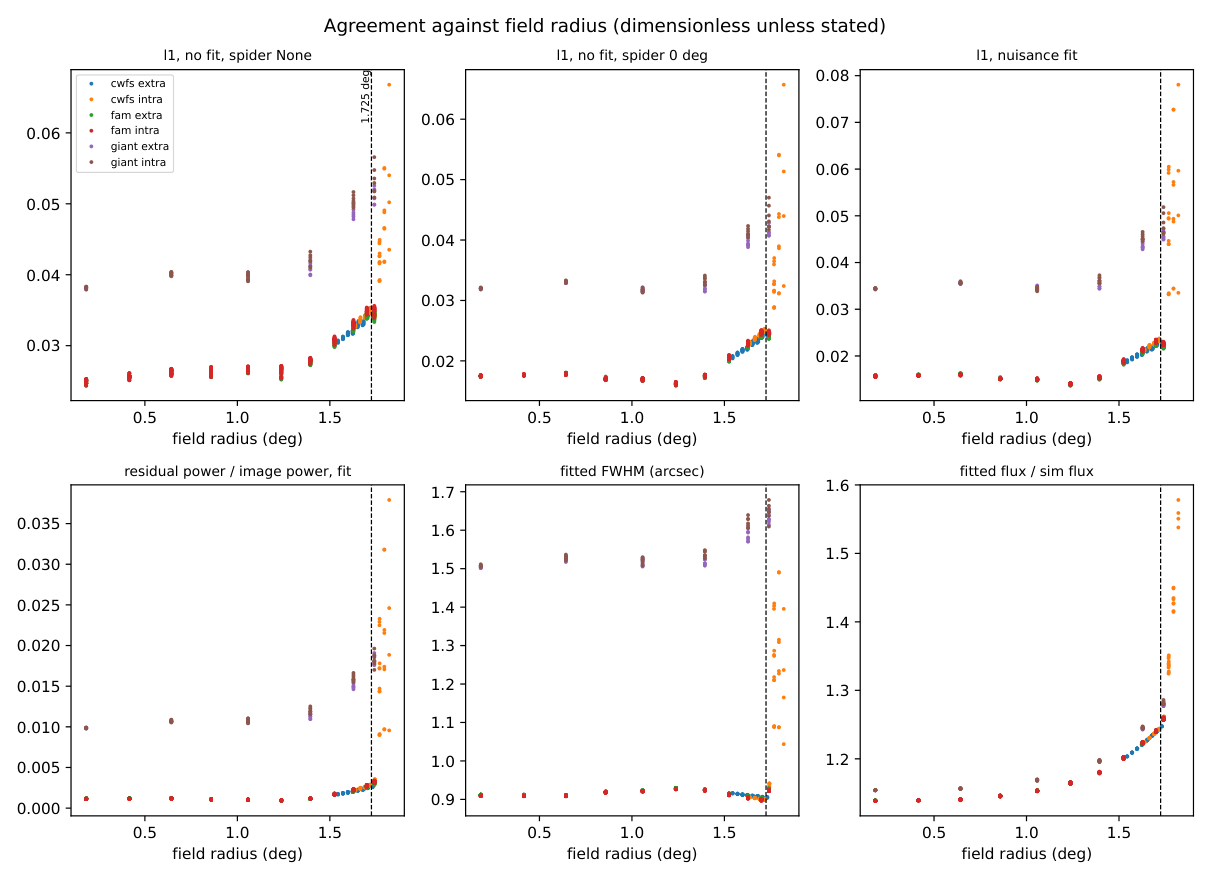
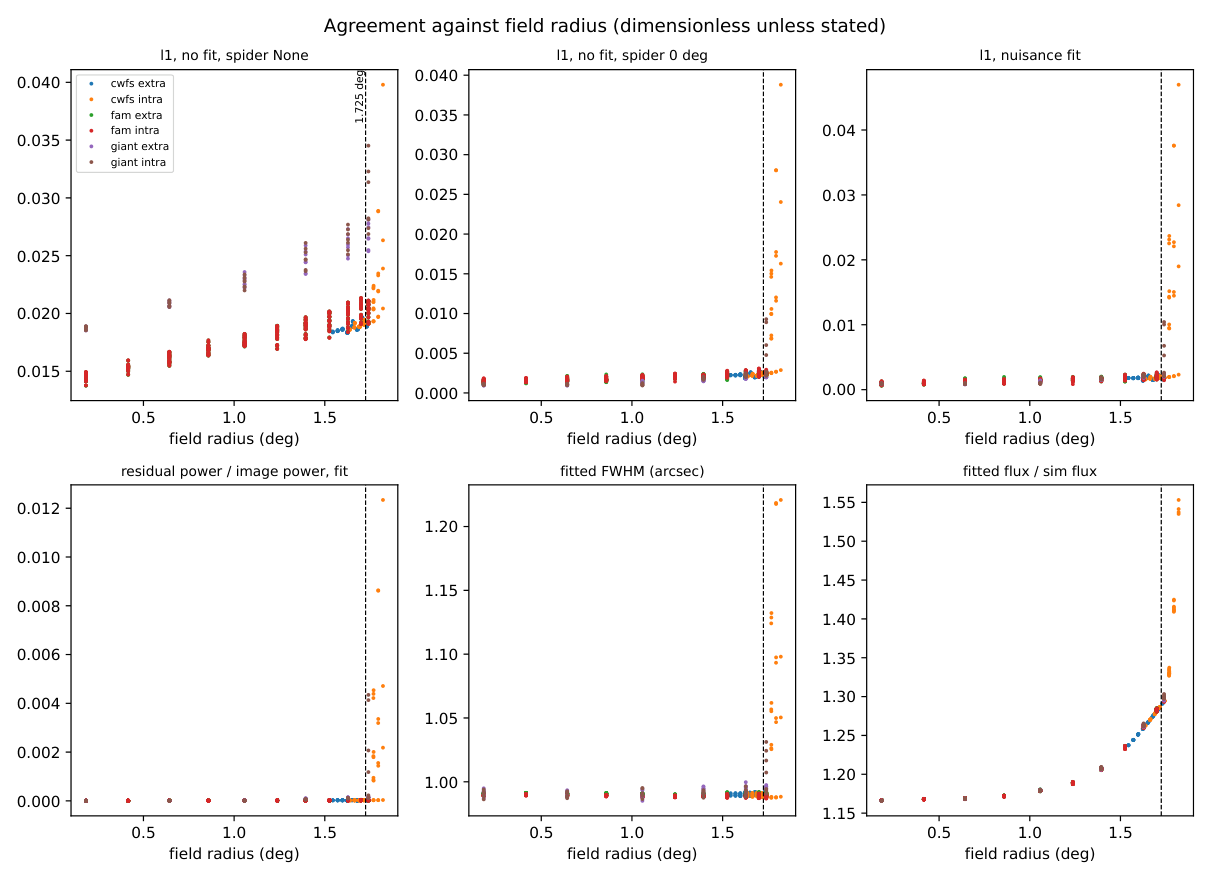
v4speed_mask_vs_batoid: correction and pass 2: the v4_speed file, edge g
Written by /wrap for aos/v4speed_mask_vs_batoid.

Generated with AI

diff --git a/aos/v4speed_mask_vs_batoid/study.md b/aos/v4speed_mask_vs_batoid/study.md
@@ -3,10 +3,10 @@ study: v4speed_mask_vs_batoid
 topic: aos
 status: answered
 question: With the wavefront fixed at the Batoid v4_speed TA Zernikes (no fit), how well does the Danish forward model with the v4_speed obscuration file match Batoid-traced donuts, by defocus configuration (FAM, CWFS, giant), side and field position?
-answer: Danish (v4_speed obscuration, spider_angle 0 deg) at the batoid TA wavefront misplaces a median 1.8% of the flux on FAM donuts, 2.2-2.5% on CWFS and 3.3% on giant; within 1.725 deg the worst after a nuisance fit is 2.4% (FAM, CWFS) and 4.7% (giant). The giant pupil edges do not match (fitted blur 1.5 arcsec at a true 1.0 arcsec).
+answer: With the v4_speed obscuration file (spider_angle 0 deg) Danish at the batoid TA wavefront misplaces a median 0.20% of the flux on FAM, 0.22-0.24% on CWFS and 0.15% on giant donuts, at most 0.27% within 1.725 deg; the giant residual is the +-4 mm M2 and camera shift (edges off 3-8 mm on the stop plane, sign reversing with side). Pass 1 used ts_wep's shipped mask by mistake.
 uses:
-  batoid_intrinsic: v4_speed@20261121
-  sim_donuts: v4_speed_mono@20261120
+  batoid_intrinsic: v4_speed@20261121, v4_speed@20261121b
+  sim_donuts: v4_speed_mono@20261120, v4_speed_mono_edge@20261121
 started: 2026-11-20
 ---
 
@@ -18,15 +18,63 @@ With the wavefront fixed at the Batoid v4_speed TA Zernikes (no fit), how well d
 
 ## Current answer
 
-At the batoid TA wavefront, with no wavefront fit, Danish with the v4_speed obscuration
-file misplaces a median 1.8% of the flux on FAM donuts, 2.2-2.5% on CWFS and 3.3% on
-giant donuts (l1, dimensionless; spider_angle 0 deg). It is flat to 1.4 deg field
-radius, then rises; within the 1.725 deg limit the worst after a nuisance fit is 2.4%
-(FAM, CWFS) and 4.7% (giant), and the 6-8% CWFS corners all lie beyond it. The
-giant-donut pupil edges do not match: the fit inflates the blur to 1.5 arcsec against a
-true 1.0 arcsec.
+With the v4_speed obscuration file (spider_angle 0 deg), Danish at the batoid TA
+wavefront misplaces a median 0.20% of the flux on FAM donuts, 0.22-0.24% on CWFS and
+0.15% on giant donuts (l1, dimensionless), at most 0.27% within 1.725 deg, with the
+fitted blur within 0.01 arcsec of the truth. The remaining giant mismatch is the ±4 mm
+M2 and camera shift: M3, M2 and camera-body edges off by 3-8 mm on the stop plane, with
+opposite signs on the two sides. Pass 1's larger numbers were ts_wep's shipped v3.14
+mask, used by mistake.
 
 ## Log
+
+### 2026-11-21 — correction and pass 2: the v4_speed file, edge grid, per-element edges
+
+**Correction: pass 1 did not test the v4_speed obscuration file.** `rubinwork.donut_sim.optics.instrument`
+passed `maskParams=None` to ts_wep's `Instrument`, and `mergeConfigWithFile` drops `None`
+kwargs, so the 6-element v3.14 mask inline in `LsstCam.yaml` stayed in force. Fixed in
+`90381bf` (clear with the setter, then check against the file). Runs `20261121_ta_model`
+(rerun under `--mask lsstcam_shipped`, now titled for that mask) and the pass-1 Log numbers
+describe **ts_wep's shipped mask against the v4_speed batoid model**, not Josh's file.
+`20261121_blur_check` was redone with the right mask. The products are unaffected: neither
+`batoid_intrinsic` nor `sim_donuts` uses the mask.
+
+With the v4_speed file (run `20261121_ta_model_v4obsc`, all 998 `sim_donuts` stamps), l1 is
+the fraction of the flux misplaced (dimensionless); medians, spider_angle 0 deg:
+
+| config | l1 no fit | l1 fit, max within 1.725 deg | fitted FWHM (arcsec, true 1.0) |
+|---|---|---|---|
+| fam | 0.0020 | 0.0027 | 0.990 |
+| cwfs | 0.0022-0.0024 | 0.0023 | 0.990 |
+| giant | 0.0015 | 0.0024 | 0.992-0.993 |
+
+Against the shipped mask the same numbers were 0.018, 0.022-0.025 and 0.033, with fitted
+FWHM 0.91 and 1.53 arcsec. The FAM blur deficit and the giant edge mismatch of pass 1 were
+both the shipped mask. Blur check with the v4_speed file: fitted 0.48-0.49, 0.99 and
+1.49-1.50 arcsec at a true 0.5, 1.0 and 1.5 arcsec. Without the spider (spider_angle None)
+l1 is 0.018-0.026: the vanes must be on.
+
+**Edge grid** (run `20261121_edge_v4obsc`, `sim_donuts v4_speed_mono_edge@20261121`, 1344
+stamps, 1.400-1.725 deg in 0.025 deg steps by 24 azimuths): l1 no fit 0.20-0.26% (FAM) and
+0.17-0.21% (giant), rising smoothly with radius; after the fit at most 0.26% and 0.25%;
+fitted FWHM 0.989-0.995 arcsec. No radius stands out where the eight camera edges switch on.
+
+**Stop plane, per element** (`pupil_edges.py`, `0db135c`, run `20261121_pupil_edges`):
+batoid vignetting against Danish's mask on a 512 x 512 stop-plane grid, 14 radii x 4
+azimuths. Mismatched area over batoid clear area: FAM 0.02% median, 0.06% max; giant
+0.19-0.21% median, 0.27% max. The giant offsets are nearly constant in field radius and
+reverse with the side ([figure](figures/giant_edge_offsets.png)): extra M3 outer +8 mm,
+M2 outer +5 mm, M2 inner -3 mm, camera body -6 mm; intra the opposite. That is the
++-4 mm M2 and camera shift, which one mask file cannot follow; for FAM the largest is the
+camera body at 3.7 mm.
+
+[Agreement against field radius](figures/field_radius.png) (now the v4_speed file).
+
+Next:
+- `sim_donut_fits` and `v4speed_danish_closure`: whether 0.2% of misplaced flux biases
+  the fitted Zernikes;
+- if the giant fits are biased: side-dependent giant masks from batoid edges, as
+  `gen_mask_params.py` does.
 
 ### 2026-11-21 — pass 1 PDF: 1.725 deg limit, metric equations, edge examples
 

diff --git a/STUDIES.md b/STUDIES.md
@@ -33,7 +33,7 @@ Every study in the repository, read from the front matter of `<topic>/<study>/st
 | [aos/psf_fp_maps](aos/psf_fp_maps/study.md) | parked | 2026-09-06 | 2026-09-20 | What focal-plane PSF FWHM, ellipticity and shape does a given optical wavefront deliver, measured the way the survey measures them? |  |  |
 | [aos/unpaired_intra_vs_extra](aos/unpaired_intra_vs_extra/study.md) | active | 2026-10-15 | 2026-10-23 | Does the wavefront measured from the intra-focal donut differ from the extra-focal donut of the same FAM pair, and is that difference thermally driven as the blur difference is? | Yes to both, with a split. Z14 carries the largest difference (-0.5221 um of wavefront, 8.6x its own two-side mean) but only Z11 tracks the blur difference within a night and only Z11 responds to the pupil model. Z4 is the surprise: a modest median difference with the second-largest robust scatter over visit pairs (0.1710 um of wavefront), 25.3 per cent of which the thermal model removes. | fam_tables: danish_1_3_v1000@20261013, danish_1_3_test@20261013 |
 | [aos/v4speed_danish_closure](aos/v4speed_danish_closure/study.md) | active | 2026-11-20 | 2026-11-20 | When the donuts, the reference wavefront and the obscuration file all come from the v4_speed model, how well do Danish fits match the donuts, and how far are the fitted Zernikes from the Batoid wavefront, by defocus configuration, side and field position? |  |  |
-| [aos/v4speed_mask_vs_batoid](aos/v4speed_mask_vs_batoid/study.md) | answered | 2026-11-20 | 2026-11-21 | With the wavefront fixed at the Batoid v4_speed TA Zernikes (no fit), how well does the Danish forward model with the v4_speed obscuration file match Batoid-traced donuts, by defocus configuration (FAM, CWFS, giant), side and field position? | Danish (v4_speed obscuration, spider_angle 0 deg) at the batoid TA wavefront misplaces a median 1.8% of the flux on FAM donuts, 2.2-2.5% on CWFS and 3.3% on giant; within 1.725 deg the worst after a nuisance fit is 2.4% (FAM, CWFS) and 4.7% (giant). The giant pupil edges do not match (fitted blur 1.5 arcsec at a true 1.0 arcsec). | batoid_intrinsic: v4_speed@20261121; sim_donuts: v4_speed_mono@20261120 |
+| [aos/v4speed_mask_vs_batoid](aos/v4speed_mask_vs_batoid/study.md) | answered | 2026-11-20 | 2026-11-21 | With the wavefront fixed at the Batoid v4_speed TA Zernikes (no fit), how well does the Danish forward model with the v4_speed obscuration file match Batoid-traced donuts, by defocus configuration (FAM, CWFS, giant), side and field position? | With the v4_speed obscuration file (spider_angle 0 deg) Danish at the batoid TA wavefront misplaces a median 0.20% of the flux on FAM, 0.22-0.24% on CWFS and 0.15% on giant donuts, at most 0.27% within 1.725 deg; the giant residual is the +-4 mm M2 and camera shift (edges off 3-8 mm on the stop plane, sign reversing with side). Pass 1 used ts_wep's shipped mask by mistake. | batoid_intrinsic: v4_speed@20261121, v4_speed@20261121b; sim_donuts: v4_speed_mono@20261120, v4_speed_mono_edge@20261121 |
 | [aos/wavefront_outliers](aos/wavefront_outliers/study.md) | parked | 2026-09-22 | 2026-09-22 | Which individual donut fits are catastrophically bad, and what per-donut cut flags them? | A robust z-score above 20 (dimensionless) against the per-CCD median flags 1.535e-02 of donuts on danish_1_3_test; which threshold to adopt, and whether it belongs in the fam_tables build, is a product decision. |  |
 | [aos/wfs_mimic](aos/wfs_mimic/study.md) | parked | 2026-06-24 | 2026-09-20 | What corner-to-corner covariance of the measured-intrinsic deviation would the four corner sensors see, mimicked from FAM donuts at the corner radius? | A covariance product only (84 by 84 cross-corner, 21 by 21 single-corner); no conclusion of its own. |  |
 | [astrometry/astrometry_residual_field](astrometry/astrometry_residual_field/study.md) | parked | 2026-08-13 | 2026-08-14 | Does the per-visit astrometric residual field (single-frame WCS minus Gaia, before the turbulence correction) carry a coherent atmospheric pattern, and how does it compare with the PSF ellipticity field of the same visit? |  |  |
